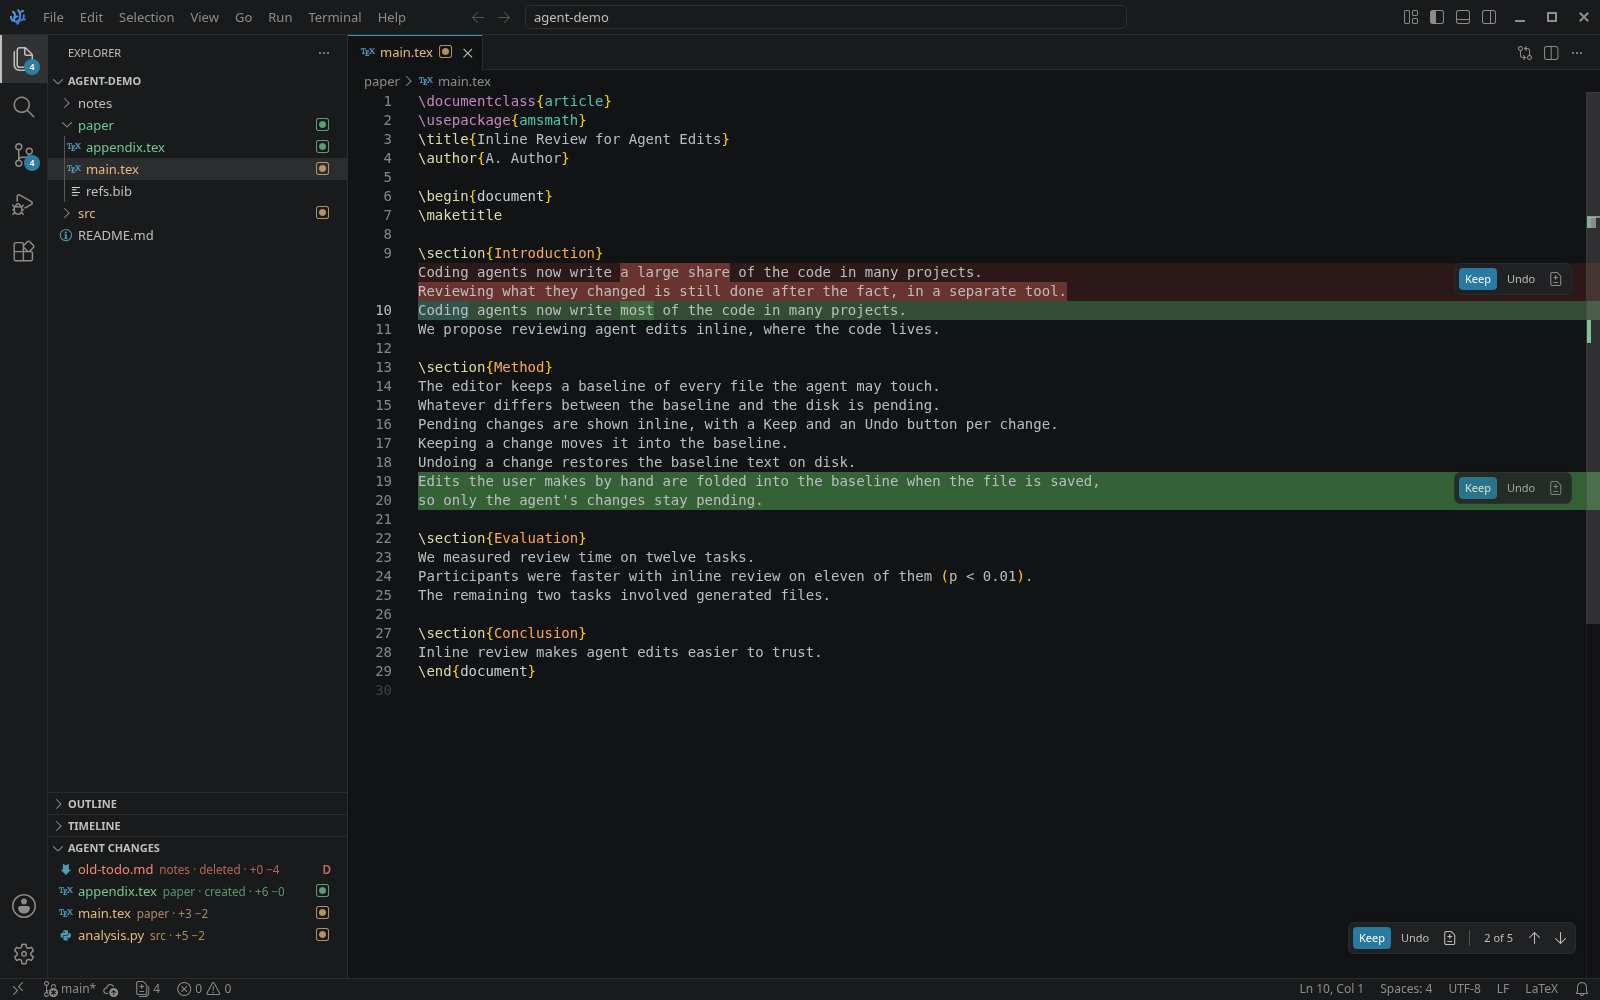
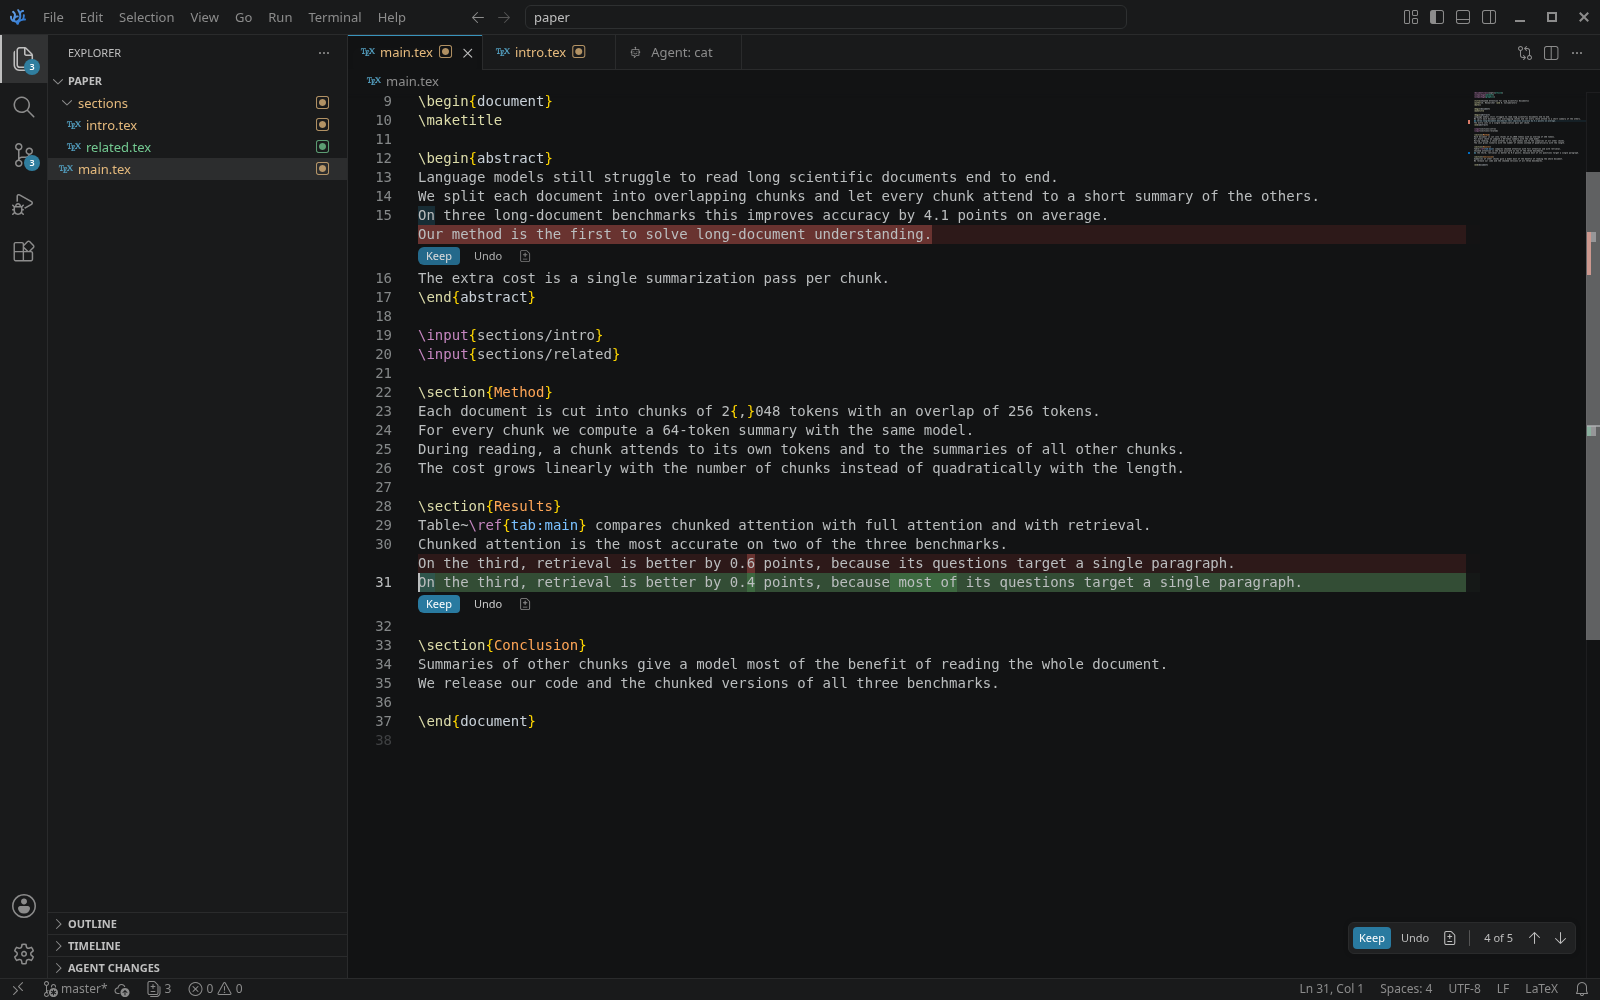
Docs: screenshots from the final smoke run, test counts and patch sizes
New screenshots from the packaged Linux app under Xvfb, running the try-it demo
(scripts/demo-agent.sh on examples/paper) through a symlinked folder: pending (hunk toolbars in
their own rows), a narrow editor next to the docked Agent Terminal after Ctrl+L, after Keep
(Ctrl+Y) and after Undo (Ctrl+N; on disk right away). docs/phase2.md: screenshot table, test
counts (engine 162, extension 35, core agentReview 23), patch sizes, lint and shellcheck rows.

diff --git a/docs/phase2.md b/docs/phase2.md
@@ -8,13 +8,14 @@ PR dependencies: this branch is `phase-0` (#2) plus a merge of `phase-1-engine` 
 
 ## What works end to end (packaged Linux build)
 
-All screenshots come from the packaged `VSCode-linux-x64/editor` built by `fork/scripts/build.sh`. The sample project and the agent edits come from `fork/scripts/simulate-agent.mjs`, which writes to disk while the app runs.
+All screenshots come from the packaged `VSCode-linux-x64/editor` built by `fork/scripts/build.sh`. The sample project and the agent edits come from `fork/scripts/simulate-agent.mjs`, which writes to disk while the app runs. The first four are from the final smoke run on this branch (`scripts/demo-agent.sh`); the others are from the earlier phase-2 run, so they still show the old floating hunk toolbar.
 
 | Screenshot | What it shows |
 |---|---|
-| [`pending.png`](img/phase2/pending.png) | A live agent write, shown inline. The rewritten words are highlighted within the line (word level), the deleted sentence is a red row, and the inserted paragraph is green. Every hunk has Keep/Undo, and the overlay reads "change 2 of 6" with arrows. The **Agent Changes** list shows four files: deleted, created, and two modified, each with +/− counts |
-| [`after-keep.png`](img/phase2/after-keep.png) | After **Keep** on the "eleven of them" hunk: the hunk is gone, the file on disk is unchanged, and the list count drops (+4 −2). The engine's baseline moved (E1) |
-| [`after-undo.png`](img/phase2/after-undo.png) | After **Undo** on the intro hunk: the original sentence and the deleted line are back, both in the buffer and **on disk** (saved, no dirty marker). The remaining hunk is untouched and the list reads +2 −0 |
+| [`pending.png`](img/phase2/pending.png) | The try-it demo (`scripts/demo-agent.sh` on `examples/paper`, opened through a symlinked folder): a deleted sentence as a red row, an added `\input` line, and a changed result with word-level highlights (`0.6`→`0.4`, "most of"). Each hunk has Keep/Undo in its own row below it; the overlay reads "3 of 6" across the files |
+| [`after-keep.png`](img/phase2/after-keep.png) | After **Ctrl+Y** on the `\input{sections/related}` line: that change is gone and the file on disk is unchanged (the engine's baseline moved). Packaged-app smoke check |
+| [`after-undo.png`](img/phase2/after-undo.png) | After **Ctrl+N** on the changed result: the original sentence is back in the buffer **and on disk** right away (no unsaved marker; the smoke script checks the file). The deleted abstract sentence is still pending |
+| [`narrow-agent-terminal.png`](img/phase2/narrow-agent-terminal.png) | A narrow editor with the Agent Terminal docked right (after **Ctrl+L** sent `@sections/intro.tex:L2` to it): the Keep/Undo rows never cover the text |
 | [`multi-file.png`](img/phase2/multi-file.png) | **Open All Changes**: a multi-file diff of every pending file against its baseline (deleted, created, modified), from the Agent Changes title bar |
 | [`created-file.png`](img/phase2/created-file.png) | A file the agent created is reviewed inline as all-green against an empty baseline. Undoing it deletes the file |
 | [`after-restart.png`](img/phase2/after-restart.png) | The app is quit and restarted, and the same pending hunk and file list come back (the baselines persist in workspace storage). Changes made while the app was closed are picked up too (integration test) |
@@ -101,8 +102,8 @@ They're applied after VSCodium's patches, in this order. Readable copies of the 
 | Patch | Lines | Upstream files touched |
 |---|---|---|
 | `90-diff-preserve-short-matching-lines.patch` | +27 −1 (diff option + 2 unit tests) | `linesDiffComputer.ts`, `documentDiffProvider.ts`, `defaultLinesDiffComputer.ts`, the diff test file |
-| `91-chat-editing-review-hooks.patch` | +89 −28 | `chatEditingTextModelChangeService.ts` (C3 predicate gets the event; public `extendToSubwords` / `preserveShortMatchingLines`), `chatEditingEditorActions.ts` (C5 precondition; agent-review titles and the "Agent Review" category; 3 classes exported for tests), `chatEditingCodeEditorIntegration.ts` (the hunk toolbar's own row, opt-in via `hunkToolbarRows`), `chatEditingCodeEditorIntegration.ts` / `chatEditingNotebookEditorIntegration.ts` (diff title), `chatEditingServiceImpl.ts` (explorer tooltip) |
-| `92-agent-review.patch` | +1345 (incl. blank lines): new `contrib/agentReview/` (entry, service, contribution, save-attribution participants, 3-way merge, CSS, 22 tests in 3 files) + 1 import line in `workbench.common.main.ts` | `workbench.common.main.ts` (1 line) |
+| `91-chat-editing-review-hooks.patch` | +113 −30 | `chatEditingTextModelChangeService.ts` (C3 predicate gets the event; public `extendToSubwords` / `preserveShortMatchingLines`), `chatEditingEditorActions.ts` (C5 precondition; agent-review titles and the "Agent Review" category; 3 classes exported for tests), `chatEditingCodeEditorIntegration.ts` (the hunk toolbar's own row, opt-in via `hunkToolbarRows`), `chatEditingCodeEditorIntegration.ts` / `chatEditingNotebookEditorIntegration.ts` (diff title; the cursor-in-change context key per editor), `chatEditingServiceImpl.ts` (explorer tooltip) |
+| `92-agent-review.patch` | +1568 (incl. blank lines): new `contrib/agentReview/` (entry, service, contribution, save-attribution participants, 3-way merge, CSS, 23 tests in 3 files) + 1 import line in `workbench.common.main.ts` | `workbench.common.main.ts` (1 line) |
 | `93-default-layout.patch` | +2 −2 | Secondary side bar hidden by default (`workbench.contribution.ts`, `themeMainServiceImpl.ts`) |
 
 ## Engine additions
@@ -137,7 +138,7 @@ They're applied after VSCodium's patches, in this order. Readable copies of the 
 |---|---|---|
 | Engine (vitest) | 162 (14 files) | `npm test -w @editor/engine` |
 | Extension integration (vitest, real engine on temp dirs, fake core / fake terminal) | 35 | `npm test -w agent-review` |
-| Core `contrib/agentReview` (Electron) | 22 | `fork/scripts/test-core.sh` |
+| Core `contrib/agentReview` (Electron) | 23 | `fork/scripts/test-core.sh` |
 | Upstream chat-editing regression (Electron) | 49 | `fork/scripts/test-core.sh` |
 | Upstream diff + fixtures (node, incl. 2 new) | 125 | `fork/scripts/test-core.sh` |
 | Core typecheck of the patched tree (tsgo) | 0 errors | `npm run typecheck-client` (CI `patches` job) |
